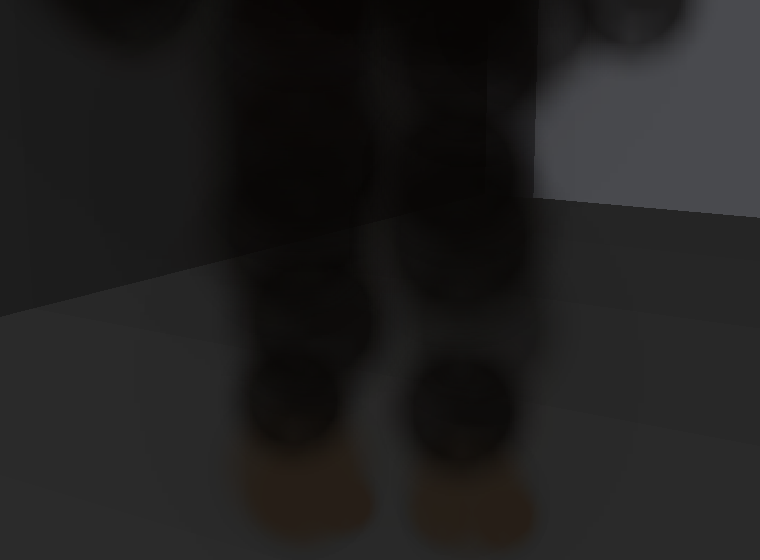
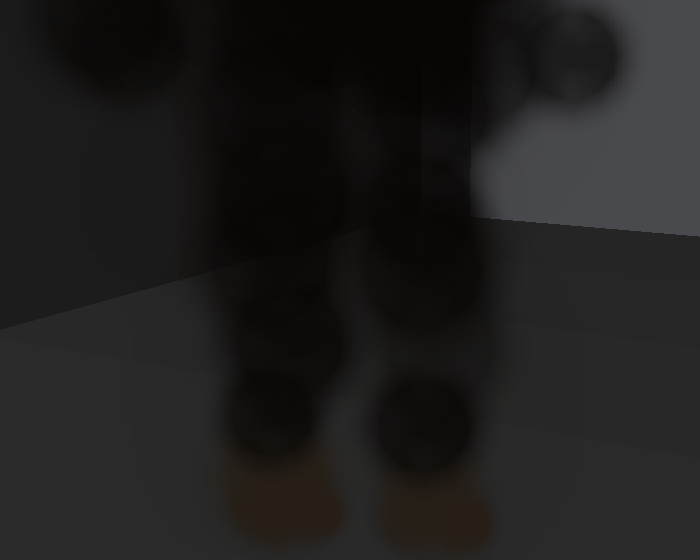
Drop the ghul's chest lamp
It read as a glowing ball stuck to the figure, not as a suit light. The lure is
better with nothing lit on it at all: a shape against the light at the far end of
the corridor, which is all you ever really see down one anyway.

The two eyes that open when it stops pretending are now the first light it shows.

Claude-Session: https://claude.ai/code/session_01XWJsuyCbsxxa8VjDTpHoYv

Changed region(s): [[0.66, 0.2732, 1.0, 0.425], [0.69, 0.0911, 0.9, 0.2429], [0.81, 0.0, 0.93, 0.0607]]

diff --git a/tools/apparition_spec.py b/tools/apparition_spec.py
@@ -185,16 +185,18 @@ def ghoul_figure(seed=11):
     """The ghul of pre-Islamic Arabia: the thing that waits off the road, takes the shape of a
     person to bring travellers close, and eats what it finds. Two layouts in one figure.
 
-    **Lure** (`morph` 0): a crew member standing quietly down the corridor with a suit lamp at the
-    chest, facing away. Upright, ordinary proportions, and - this is the point - it has legs,
+    **Lure** (`morph` 0): a crew member standing quietly down the corridor, facing away. Nothing
+    is lit about it - it is a shape against the light at the far end, which is all anyone ever
+    actually sees down a corridor. Upright, ordinary proportions, and - this is the point - it has
+    legs,
     which the vulto never does. What it does not have is boots. The folklore is consistent that
     whatever else a ghul can change, it cannot hide its hooves; they are down there from the first
     frame, too small and too dark and pointed the wrong way, for anyone who looks.
 
     **True** (`morph` 1): the lure comes apart at the joints - the shoulders rise into a hunch
     above the head, the neck runs forward, the jaw carries on past where a face would stop, the
-    arms lengthen until the hands are on the floor, and it settles over its meal. The lamp goes
-    out. Two eyes come up in its place, the colour of something gone off.
+    arms lengthen until the hands are on the floor, and it settles over its meal. Two eyes open,
+    the colour of something gone off, and they are the first light it has shown.
 
     The morph is per-puff, so it does not cut between two models: the person unfolds into it while
     you watch, and the hooves are the only part that does not move.
@@ -204,8 +206,7 @@ def ghoul_figure(seed=11):
         core=[0.030, 0.023, 0.018],      # carrion-dark: browner and heavier than the vulto's cold black
         haze=[0.105, 0.080, 0.062],      # dust, not violet
         embers_by_key={
-            "lamp": [0.72, 0.80, 0.95],  # a suit lamp, or near enough to one at twenty metres
-            "eye": [0.62, 0.78, 0.14],   # sickly, and nothing like the lamp it replaces
+            "eye": [0.62, 0.78, 0.14],   # sickly; the only light it ever shows, and only at the end
             # the hooves are the only part of it that is not smoke, so they are the only part that
             # takes the light - horn-coloured, and far too small to be boots
             "hoof": [0.155, 0.125, 0.095],
@@ -288,9 +289,7 @@ def ghoul_figure(seed=11):
                rng.uniform(0.08, 0.20), drift=rng.uniform(0.08, 0.15), spin=0.8,
                rise=rng.uniform(0.04, 0.12), pos2=(math.cos(a) * rad, y * 0.8, math.sin(a) * rad))
 
-    # the lamp at the chest, which is what you walk towards; and the eyes that replace it
-    f.ember((0.0, 1.18, -0.16), 0.105, 0.95, key="lamp",
-            pos2=(0, 1.05, -0.30), size2=0.05, energy2=0.0)
+    # no lamp, no glow, nothing: until it turns, the only thing to see is the shape
     f.ember((-0.055, 1.665, -0.09), 0.040, 0.0, key="eye",
             pos2=(-0.055, 1.045, -0.55), size2=0.042, energy2=0.85)
     f.ember((0.052, 1.668, -0.09), 0.038, 0.0, key="eye",

diff --git a/docs/APPARITIONS.md b/docs/APPARITIONS.md
@@ -57,11 +57,12 @@ which disperses once you have looked at it for 0.7 s or got within 3.5 m.
 
 ![the lure](ghoul_lure.png)
 
-*What is standing at the end of the corridor. A crew member, facing away, suit lamp lit.*
+*What is standing at the end of the corridor. A crew member, facing away. Nothing about it is
+lit - a shape against the light at the far end is all you ever really see down a corridor.*
 
 The ghul of pre-Islamic Arabia is not a ghost either. It is a desert demon that waits off the road
-in desolate country, takes the shape of a person - often calling out, often carrying a light - to
-bring a traveller in off their route, and eats what it catches. It lives on the dead. And in every
+in desolate country, takes the shape of a person to bring a traveller in off their route, and eats
+what it catches. It lives on the dead. And in every
 version of the story, whatever else it can change, **it cannot change its hooves**.
 
 That is the whole design. This one does not jump out at you; it stands a long way off, looking
@@ -74,9 +75,9 @@ Every puff carries a second anchor, and `morph` slides the whole figure between 
 
 ![the turn](ghoul_turn.png)
 
-*Five frames of it deciding to stop pretending. The lamp dies, the eyes come up in a colour no
-suit lamp has ever been, the shoulders rise into a hunch above the head, the neck runs forward,
-the arms lengthen until the hands are on the deck. The feet never move.*
+*Five frames of it deciding to stop pretending. Two eyes open - the first light it has shown -
+the shoulders rise into a hunch above the head, the neck runs forward, the arms lengthen until the
+hands are on the deck. The feet never move.*
 
 | | |
 |---|---|
@@ -119,7 +120,7 @@ a hash-based value noise and shared. No particle system, no shader.
 | `tools/build_apparition.py` | writes `kit/apparition_*.json` and the images here |
 | `tools/render_apparition.py` | the reference renders |
 | `kit/apparition_corridor.json` | the vulto: 47 puffs, 2 embers |
-| `kit/apparition_ghoul.json` | the ghul: 62 puffs (8 of them hooves), 3 embers, all of it morphing |
+| `kit/apparition_ghoul.json` | the ghul: 62 puffs (8 of them hooves), 2 embers, all of it morphing |
 | `scripts/apparition.gd` | builds and animates any of them - one class, one JSON per figure |
 | `scripts/shadow_figure.gd` | the two vulto events (crossing, watching) |
 | `scripts/ghoul.gd` | the lure |

diff --git a/README.md b/README.md
@@ -77,7 +77,7 @@ scripts/shadow_figure.gd  the two daytime apparition events (crossing, watching)
 scripts/apparition.gd  the apparitions: smoke figures built from kit/apparition_*.json - the
                        corridor vulto (jinn crossed with the Brazilian shadow person) and the ghul
 scripts/ghoul.gd       the ghul: wears a crew member down a corridor to draw you off your shift,
-                       and stops pretending when you get close (docs/APPARITIONS.md)
+                       unlit until it stops pretending (docs/APPARITIONS.md)
 scripts/stalker.gd     the night stalker
 scripts/creature.gd    the night stalker's body: a posable rig built from kit/creature_rig.json -
                        belly-up crawl, contortions, upright when immobile (see docs/CREATURE.md)
